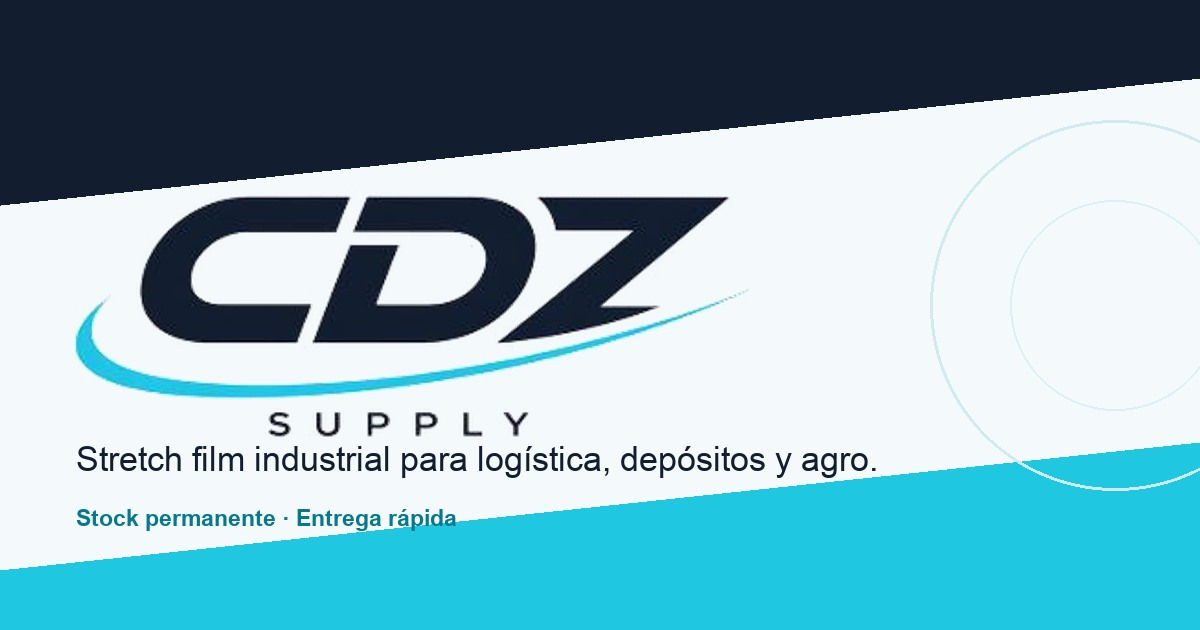
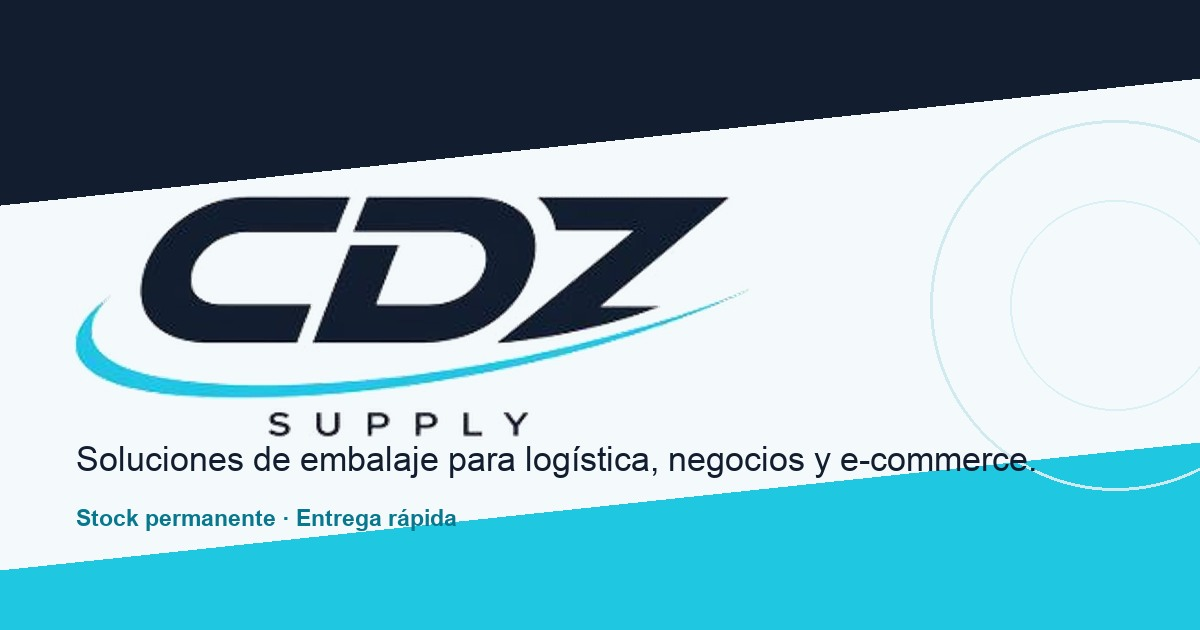
Broaden brand messaging for ecommerce and shipping

Changed region(s): [[0.0925, 0.6937, 0.8633, 0.754]]

diff --git a/index.html b/index.html
@@ -3,8 +3,8 @@
 <head>
 <meta charset="UTF-8" />
 <meta name="viewport" content="width=device-width, initial-scale=1" />
-<title>CDZSUPPLY | Stretch Film Industrial</title>
-<meta name="description" content="CDZSUPPLY importa y distribuye stretch film industrial para logística, depósitos y agro, con stock permanente, entrega rápida y asesoramiento técnico." />
+<title>CDZSUPPLY | Soluciones de embalaje para e-commerce</title>
+<meta name="description" content="CDZSUPPLY importa y distribuye soluciones de embalaje e insumos para e-commerce, logística y negocios, con stock permanente y entrega rápida." />
 <meta name="application-name" content="CDZSUPPLY">
 <meta name="theme-color" content="#121d2f">
 <meta name="color-scheme" content="dark light">
@@ -27,21 +27,21 @@
 <meta property="og:url" content="https://cdzsupply.com.ar/">
 <meta property="og:locale" content="es_AR">
 <meta property="og:site_name" content="CDZSUPPLY">
-<meta property="og:title" content="CDZSUPPLY | Stretch Film Industrial">
-<meta property="og:description" content="CDZSUPPLY importa y distribuye stretch film industrial para logística, depósitos y agro, con stock permanente, entrega rápida y asesoramiento técnico.">
+<meta property="og:title" content="CDZSUPPLY | Soluciones de embalaje para e-commerce">
+<meta property="og:description" content="CDZSUPPLY importa y distribuye soluciones de embalaje e insumos para e-commerce, logística y negocios, con stock permanente y entrega rápida.">
 <meta property="og:image" content="https://cdzsupply.com.ar/assets/img/og-cdzsupply.jpg">
 <meta property="og:image:secure_url" content="https://cdzsupply.com.ar/assets/img/og-cdzsupply.jpg">
 <meta property="og:image:type" content="image/jpeg">
 <meta property="og:image:width" content="1200">
 <meta property="og:image:height" content="630">
-<meta property="og:image:alt" content="CDZSUPPLY, stretch film industrial para logística, depósitos y agro">
+<meta property="og:image:alt" content="CDZSUPPLY, soluciones de embalaje para e-commerce, logística y negocios">
 
 <!-- X / Twitter -->
 <meta name="twitter:card" content="summary_large_image">
-<meta name="twitter:title" content="CDZSUPPLY | Stretch Film Industrial">
-<meta name="twitter:description" content="CDZSUPPLY importa y distribuye stretch film industrial para logística, depósitos y agro, con stock permanente, entrega rápida y asesoramiento técnico.">
+<meta name="twitter:title" content="CDZSUPPLY | Soluciones de embalaje para e-commerce">
+<meta name="twitter:description" content="CDZSUPPLY importa y distribuye soluciones de embalaje e insumos para e-commerce, logística y negocios, con stock permanente y entrega rápida.">
 <meta name="twitter:image" content="https://cdzsupply.com.ar/assets/img/og-cdzsupply.jpg">
-<meta name="twitter:image:alt" content="CDZSUPPLY, stretch film industrial para logística, depósitos y agro">
+<meta name="twitter:image:alt" content="CDZSUPPLY, soluciones de embalaje para e-commerce, logística y negocios">
 <link rel="preconnect" href="https://fonts.googleapis.com">
 <link rel="preconnect" href="https://fonts.gstatic.com" crossorigin>
 <link rel="preload" as="style" href="https://fonts.googleapis.com/css2?family=Bebas+Neue&family=Source+Sans+3:wght@400;500;600;700&display=swap">
@@ -95,8 +95,8 @@
 
     <div class="hero-content">
       <span class="eyebrow">Stock permanente</span>
-      <h1>Stretch film que sostiene tu carga en cada vuelta</h1>
-      <p class="hero-subtitle">Importamos y distribuimos film estirable industrial para paletizado, logística y agro. Calidad de máquina, entrega rápida y asesoramiento técnico real.</p>
+      <h1>Tu aliado en cada envío</h1>
+      <p class="hero-subtitle">Importamos y distribuimos soluciones de embalaje e insumos para e-commerce, logística y negocios. Calidad, stock permanente y entrega rápida para que cada operación siga avanzando.</p>
       <div class="hero-actions">
         <a href="#contacto" class="btn btn-primary">Pedir cotización</a>
         <a href="#productos" class="btn btn-outline">Ver productos</a>
@@ -119,9 +119,9 @@
     <div class="container about-grid">
       <div class="about-copy">
         <span class="section-eyebrow">Quiénes somos</span>
-        <h2>Especialistas en film estirable, desde la importación hasta tu depósito</h2>
-        <p>CDZSUPPLY nació para resolver un problema simple: conseguir stretch film de calidad consistente, sin roturas de stock y con precio de importador directo. Trabajamos con fábricas certificadas en el exterior y traemos el film en volumen para sostener precio y disponibilidad todo el año.</p>
-        <p>Hoy abastecemos a empresas de logística, depósitos fiscales, agroindustria y distribuidores de embalaje en toda la región, con pedidos a medida y reposición programada.</p>
+        <h2>Soluciones de embalaje para cada etapa de tu operación</h2>
+        <p>CDZSUPPLY nació para acompañar a negocios, comercios y operadores logísticos con insumos de embalaje confiables, stock permanente y atención cercana. Importamos y distribuimos productos pensados para simplificar la preparación, protección e identificación de cada envío.</p>
+        <p>Hoy abastecemos a empresas de logística, tiendas e-commerce, comercios y distribuidores de embalaje, con opciones para diferentes volúmenes de operación y reposición programada.</p>
 
         <div class="value-props">
           <div class="value-prop">
@@ -160,7 +160,7 @@
       <div class="section-head center">
         <span class="section-eyebrow">Catálogo</span>
         <h2>Film para cada tipo de operación</h2>
-        <p>Tres líneas pensadas para paletizado manual, máquina y almacenamiento de forraje, con espesores y anchos a medida.</p>
+        <p>Cinco líneas de productos para embalar, proteger e identificar pedidos en operaciones de logística, comercio y e-commerce.</p>
       </div>
 
       <div class="product-grid">
@@ -242,7 +242,7 @@
         <div class="why-card">
           <span class="icon"><svg viewBox="0 0 24 24" fill="none" stroke="currentColor" stroke-width="2" stroke-linecap="round" stroke-linejoin="round" aria-hidden="true"><path d="M3 3h18v6H3zM3 15h18v6H3zM7 9v6M17 9v6"/></svg></span>
           <h3>Asesoramiento técnico</h3>
-          <p>Te ayudamos a elegir el espesor y ancho correcto según tu paletizadora.</p>
+          <p>Te ayudamos a elegir el producto adecuado según tu operación y volumen de envíos.</p>
         </div>
         <div class="why-card">
           <span class="icon"><svg viewBox="0 0 24 24" fill="none" stroke="currentColor" stroke-width="2" stroke-linecap="round" stroke-linejoin="round" aria-hidden="true"><path d="M20.4 14.5L16 10 4 20"/><circle cx="8.5" cy="8.5" r="2.5"/></svg></span>
@@ -313,9 +313,11 @@
         <div class="field">
           <label for="producto">Producto de interés</label>
           <select id="producto" name="producto" autocomplete="off">
-            <option value="manual">Film Manual</option>
-            <option value="maquina">Film Máquina</option>
-            <option value="agro">Film para Silo / Agro</option>
+            <option value="film-manual">Film Manual</option>
+            <option value="cinta-embalaje">Cinta de embalaje</option>
+            <option value="cinta-kraft">Cinta Kraft papel premium</option>
+            <option value="papel-termico">Rollo de papel térmico de 80 mm</option>
+            <option value="etiquetas-termicas">Rollo de etiquetas térmicas 100 x 150 mm</option>
             <option value="no-se">Todavía no sé, necesito asesoramiento</option>
           </select>
         </div>
@@ -336,7 +338,7 @@
     <div class="footer-grid">
       <div class="footer-brand">
         <a href="#top" class="brand brand-logo" aria-label="CDZSUPPLY — inicio"><img src="assets/img/cdzsupply-logo-inverted.png" alt="" width="370" height="136"></a>
-        <p>Importadores y distribuidores de stretch film industrial para logística, depósitos y agroindustria.</p>
+        <p>Importadores y distribuidores de soluciones de embalaje para logística, negocios y e-commerce.</p>
       </div>
       <div class="footer-col">
         <h3>Navegación</h3>
